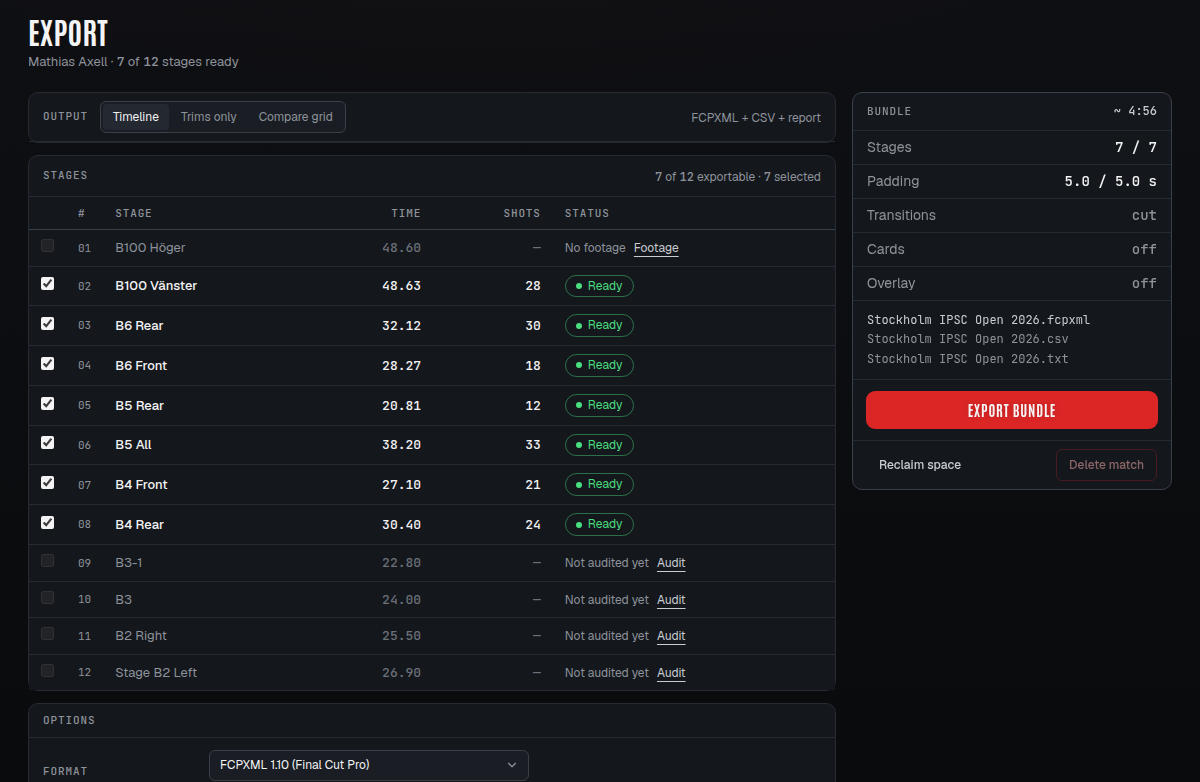
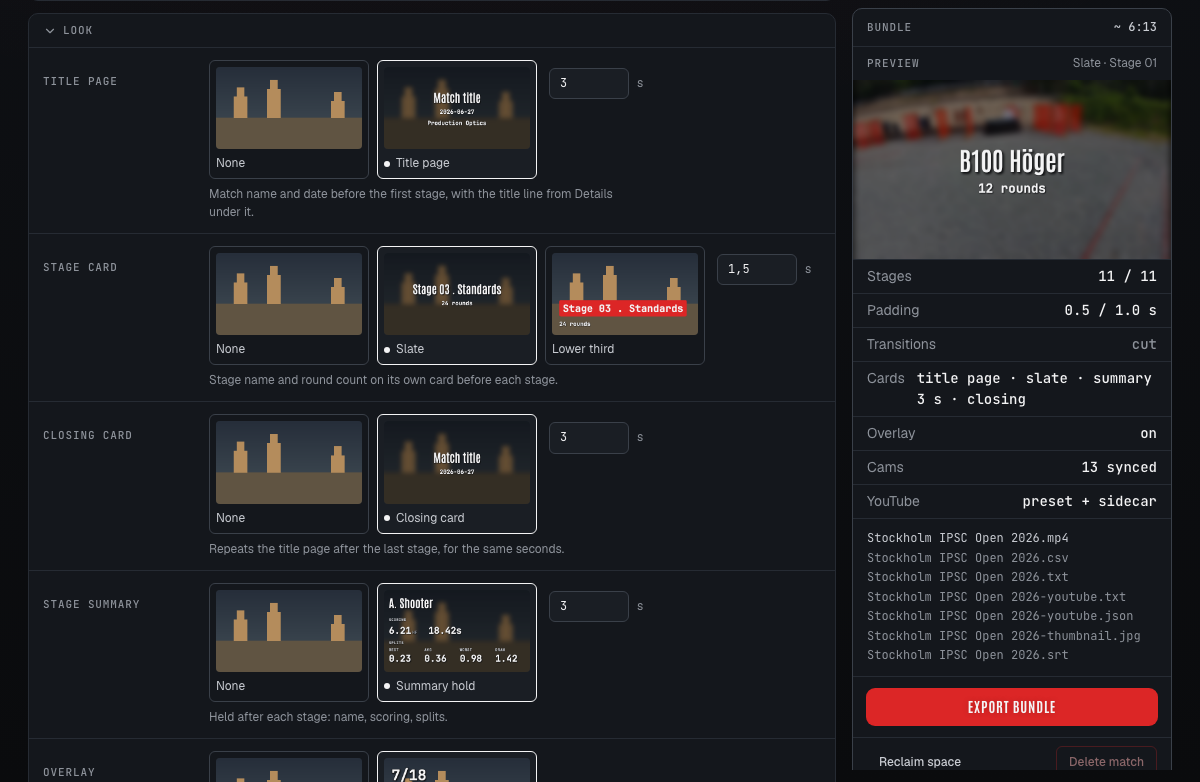
docs: export screenshots and copy for presets, the gallery and the preview
Both shots are the real Stockholm IPSC Open 2026 on the YouTube preset
with Look open and the rail previewing the stage slate over the
shooter's own footage.

Claude-Session: https://claude.ai/code/session_01UPsQRSVVHhmAfdxcRSYrEv

diff --git a/site/index.html b/site/index.html
@@ -322,8 +322,8 @@
       </div>
       <div class="cell shell c-export rv">
         <div class="core">
-          <div class="body"><span class="phase">Deliver &middot; Export</span><h3>Say why, or ship it</h3><p>A stage that cannot export says why in one line and offers the fix. The ones that can go out as a Final Cut timeline with a marker per shot, a rendered MP4 with the overlay burned in, a compare grid of the whole squad, or lossless trims. The MP4 can go straight to your YouTube channel.</p></div>
-          <div class="pic"><img src="img/export.png" width="1200" height="782" alt="The export page: output mode, the stage table with ready and blocked stages, options and the bundle summary" loading="lazy"></div>
+          <div class="body"><span class="phase">Deliver &middot; Export</span><h3>Pick a look, see it on your footage</h3><p>Start from a preset or save your own, then choose the look from a gallery: title page, slates, the summary hold, the shot counter, each previewed on your own footage before you render. A stage that cannot export says why in one line and offers the fix. Out come a Final Cut timeline with a marker per shot, a rendered MP4 with the overlay burned in, a compare grid of the whole squad, or lossless trims. The MP4 can go straight to your YouTube channel.</p></div>
+          <div class="pic"><img src="img/export.png" width="1200" height="782" alt="The export page: the Look gallery with a tile per card and effect, and the rail previewing the stage slate over the shooter's own footage" loading="lazy"></div>
         </div>
       </div>
     </div>
@@ -348,7 +348,7 @@
       <div class="way shell rv d2"><div class="core">
         <span class="k">Rendered MP4</span><h3>Ready to post</h3>
         <p class="muted" style="font-size:14px">A finished cut with the shot counter and splits burned in, a title page and a stage card, or every shooter in one beep-aligned grid.</p>
-        <ul><li>Alpha overlay with the shot clock</li><li>Compare grid with a mixed squad track</li><li>Upload to YouTube from the app: chapters, captions and thumbnail, into a playlist, scheduled if you like</li></ul>
+        <ul><li>Presets for the whole export, yours or the built-in four</li><li>The look from a gallery, previewed on your footage</li><li>Alpha overlay with the shot clock</li><li>Compare grid with a mixed squad track</li><li>Upload to YouTube from the app: chapters, captions and thumbnail, into a playlist, scheduled if you like</li></ul>
       </div></div>
     </div>
   </section>

diff --git a/README.md b/README.md
@@ -22,7 +22,7 @@ Built to do two things from a single stage video: get per-shot splits for analys
 | ![beep review](https://raw.githubusercontent.com/mandakan/splitsmith/main/docs/screenshots/beep-review.png) | **Beep review.** Auto-snap to the start beep on each stage; low-confidence detections land in a HITL queue. |
 | ![audit](https://raw.githubusercontent.com/mandakan/splitsmith/main/docs/screenshots/audit.png) | **Audit.** Waveform + per-shot markers from the 3-voter ensemble. Click a marker to inspect votes; drag to fine-tune. |
 | ![compare](https://raw.githubusercontent.com/mandakan/splitsmith/main/docs/screenshots/compare.png) | **Compare.** Multi-shooter grid, all beep-aligned to t=0. Audio from one shooter, video tiles for everyone else. |
-| ![export](https://raw.githubusercontent.com/mandakan/splitsmith/main/docs/screenshots/export.png) | **Export.** Per-stage or whole-match FCPXML. Open in Final Cut Pro, M / Shift+M to navigate markers. |
+| ![export](https://raw.githubusercontent.com/mandakan/splitsmith/main/docs/screenshots/export.png) | **Export.** Pick a preset (Final Cut bundle, YouTube match video, quick trims, compare grid) or save your own. Every card and effect is a tile, previewed on your own footage before you render. FCPXML with a marker per shot, or a rendered MP4 straight to YouTube. |
 
 > Screenshots regenerate from a live `splitsmith ui` via `scripts/capture_screenshots.py`. See [Regenerating screenshots](#regenerating-screenshots) below.
 
@@ -74,7 +74,7 @@ The repo ships a real Stage 3 audio sample at `tests/fixtures/stage-shots-tallmi
 1. **Ingest** -- point at a folder of raw cam files; `splitsmith ui` auto-matches them to scoreboard stages by file timestamp.
 2. **Beep review** -- the detector finds the start beep on each stage; anything below the auto-trust threshold lands in a HITL queue.
 3. **Audit** -- the 3-voter ensemble (envelope onsets + CLAP prompts + GBDT over hand-crafted + PANN features) emits shot times; review the waveform and drag / drop markers to fix outliers.
-4. **Export** -- generate a per-stage FCPXML (markers per shot) or a multi-shooter Compare FCPXML (beep-aligned grid). Splits CSV ships alongside for the cull workflow.
+4. **Export** -- pick a preset or save your own, choose the look from a gallery previewed on your footage, and generate a per-stage or whole-match FCPXML (markers per shot), a rendered MP4, or a multi-shooter Compare grid. Splits CSV ships alongside for the cull workflow.
 
 How the pieces fit -- system architecture, the per-stage detection job chain, the stage status lifecycle, the share-link request path and the hosted data model -- is drawn in [`docs/architecture/DIAGRAMS.md`](docs/architecture/DIAGRAMS.md) (renders inline on GitHub; interactive versions alongside).
 
